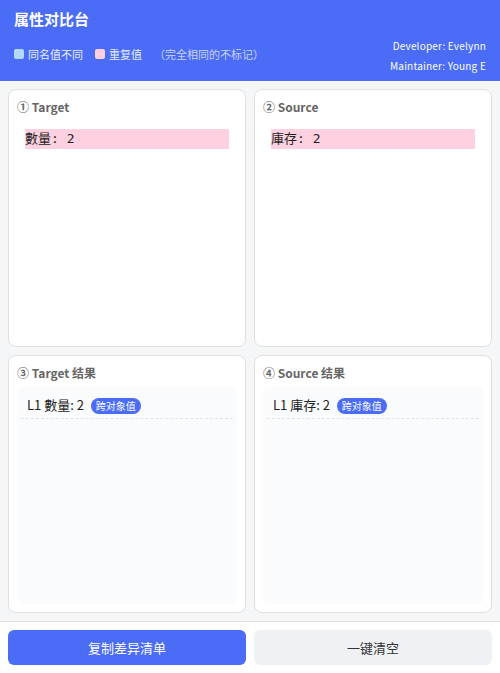
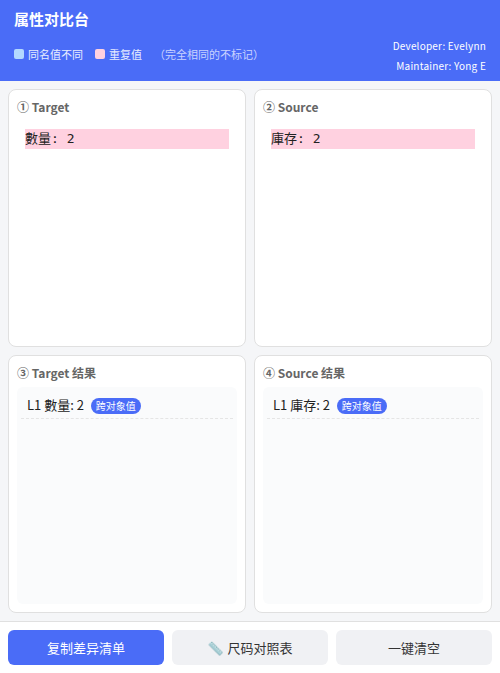
feat: 添加主流鞋码对照表功能，升级版本至0.4.0
新增独立鞋码数据文件 sizes.js，基于耐克官方标准整理成人鞋码对照数据
新增侧边栏鞋码对照表UI、展开/收起按钮，添加表格交互逻辑（点击行高亮对照）
更新README文档，新增鞋码对照表功能说明并补充 sizes.js 文件条目
修复侧边栏维护者名称拼写错误（Young E → Yong E）
更新文档预览用的两张图片文件

Changed region(s): [[0.09, 0.9361, 0.6, 0.9985], [0.72, 0.9361, 0.87, 0.9985], [0.78, 0.0936, 0.93, 0.1248]]

diff --git a/extension/sizes.js b/extension/sizes.js
@@ -1,0 +1,40 @@
+// ===== 主流鞋码对照表数据（成人，基于脚长 mm） =====
+// 说明：
+//   - 第一列「脚长 mm」即中国新码(CN)、日本码(JP)、Mondopoint(ISO 9407)，
+//     三者都直接使用脚长毫米数，故合为一列。
+//   - 本表以 Nike 等主流运动品牌官方尺码表为参考：
+//       美码 US女 ≈ US男 + 1.5（同一脚长）；小码段（220–235）无男码，只列女码
+//       英码 UK 不分男女，同一脚长对应同一 UK 数字（故合并为单列）
+//       欧码 EU 为 Nike 官方近似值（如 240mm→38.5、255mm→40.5）
+//   - 注意：不同品牌/鞋型存在半码差异，本表仅供对照参考，
+//     购买前请再查该品牌官方尺码表；宽度、鞋型、个人脚型同样关键。
+//   - 维护方式：直接改下面的数组即可，不用动渲染逻辑（与 aliases.js 相同模式）。
+
+const SIZE_CHART = [
+  { mm: 220, eu: 35.5, usM: null, usW: 5,   uk: 2.5 },
+  { mm: 225, eu: 36,   usM: null, usW: 5.5, uk: 3   },
+  { mm: 230, eu: 36.5, usM: null, usW: 6,   uk: 3.5 },
+  { mm: 235, eu: 37.5, usM: null, usW: 6.5, uk: 4   },
+  { mm: 240, eu: 38,   usM: 6,    usW: 7.5, uk: 5.5 },
+  { mm: 245, eu: 38.5, usM: 6.5,  usW: 8,   uk: 6   },
+  { mm: 250, eu: 39,   usM: 7,    usW: 8.5, uk: 6   },
+  { mm: 255, eu: 40,   usM: 7.5,  usW: 9,   uk: 6.5 },
+  { mm: 260, eu: 40.5, usM: 8,    usW: 9.5, uk: 7   },
+  { mm: 265, eu: 41,   usM: 8.5,  usW: 10,  uk: 7.5 },
+  { mm: 270, eu: 42,   usM: 9,    usW: 10.5,uk: 8   },
+  { mm: 275, eu: 42.5, usM: 9.5,  usW: 11,  uk: 8.5 },
+  { mm: 280, eu: 43,   usM: 10,   usW: 11.5,uk: 9   },
+  { mm: 285, eu: 44,   usM: 10.5, usW: 12,  uk: 9.5 },
+  { mm: 290, eu: 44.5, usM: 11,   usW: 12.5,uk: 10  },
+  { mm: 295, eu: 45,   usM: 11.5, usW: 13,  uk: 10.5},
+  { mm: 300, eu: 45.5, usM: 12,   usW: 13.5,uk: 11  },
+];
+
+// 表头（与 SIZE_CHART 字段一一对应）
+const SIZE_CHART_COLUMNS = [
+  { key: 'mm',  label: '脚长 mm' },
+  { key: 'eu',  label: '欧码 EU' },
+  { key: 'usM', label: '美码 US 男' },
+  { key: 'usW', label: '美码 US 女' },
+  { key: 'uk',  label: '英码 UK' },
+];

diff --git a/extension/sidepanel.js b/extension/sidepanel.js
@@ -219,3 +219,38 @@ window.addEventListener('resize', () => {
   syncMirrorSize(sourceInput, sourceMirror);
 });
 runCompare();
+
+// ===== ⑤ 主流鞋码对照表（数据在 sizes.js） =====
+const sizeChartBtn = document.getElementById('sizeChartBtn');
+const sizeChart    = document.getElementById('sizeChart');
+
+// 用 sizes.js 的 SIZE_CHART / SIZE_CHART_COLUMNS 渲染表格
+function renderSizeChart() {
+  const table = document.getElementById('sizeTable');
+  const head = SIZE_CHART_COLUMNS.map((c) => `<th>${esc(c.label)}</th>`).join('');
+  const rows = SIZE_CHART.map((r) => {
+    const tds = SIZE_CHART_COLUMNS.map((c) => {
+      const v = r[c.key];
+      if (v === null || v === undefined) return '<td class="na">—</td>';
+      return c.key === 'mm' ? `<td class="mm">${v}</td>` : `<td>${v}</td>`;
+    }).join('');
+    return `<tr data-mm="${r.mm}">${tds}</tr>`;
+  }).join('');
+  table.innerHTML = `<thead><tr>${head}</tr></thead><tbody>${rows}</tbody>`;
+
+  // 点击行高亮选中（方便对照当前关注的尺码）
+  table.addEventListener('click', (e) => {
+    const tr = e.target.closest('tr[data-mm]');
+    if (!tr) return;
+    table.querySelectorAll('tbody tr.selected').forEach((el) => el.classList.remove('selected'));
+    tr.classList.add('selected');
+  });
+}
+
+// 展开/收起对照表（首次展开时才渲染）
+sizeChartBtn.addEventListener('click', () => {
+  const willOpen = sizeChart.hidden;
+  sizeChart.hidden = !willOpen;
+  sizeChartBtn.textContent = willOpen ? '收起尺码表' : '📏 尺码对照表';
+  if (willOpen) renderSizeChart();
+});

diff --git a/extension/sidepanel.css b/extension/sidepanel.css
@@ -239,3 +239,93 @@ footer button:hover {
 #copyDiffBtn:hover {
   background: #3f5adb;
 }
+
+/* ===== ⑤ 主流鞋码对照表（展开区） ===== */
+.size-chart {
+  margin: 0 8px 8px;
+  padding: 10px;
+  background: #fff;
+  border: 1px solid #e0e0e0;
+  border-radius: 8px;
+}
+
+.size-chart-head {
+  display: flex;
+  flex-wrap: wrap;
+  align-items: baseline;
+  justify-content: space-between;
+  gap: 2px 8px;
+  margin-bottom: 6px;
+}
+
+.size-chart h2 {
+  margin: 0;
+  font-size: 13px;
+  color: #333;
+}
+
+.size-chart-note {
+  font-size: 10px;
+  color: #888;
+}
+
+/* 表格容器：横向溢出滚动，纵向限高滚动（表头吸顶） */
+.table-wrap {
+  overflow: auto;
+  max-height: 300px;
+  border: 1px solid #e8ebf2;
+  border-radius: 6px;
+}
+
+#sizeTable {
+  width: 100%;
+  border-collapse: collapse;
+  font-size: 11px;
+  white-space: nowrap;
+}
+
+#sizeTable th,
+#sizeTable td {
+  padding: 4px 8px;
+  text-align: center;
+  border: 1px solid #e8ebf2;
+}
+
+#sizeTable th {
+  position: sticky;
+  top: 0;
+  z-index: 1;
+  background: #4a6cf7;
+  color: #fff;
+  font-weight: 600;
+}
+
+#sizeTable tbody tr:nth-child(even) {
+  background: #f7f9fd;
+}
+
+#sizeTable tbody tr:hover {
+  background: #eef3ff;
+  cursor: pointer;
+}
+
+#sizeTable tbody tr.selected {
+  background: #dbe7ff;
+  outline: 1px solid #4a6cf7;
+  outline-offset: -1px;
+}
+
+#sizeTable td.mm {
+  font-weight: 600;
+  color: #4a6cf7;
+}
+
+#sizeTable td.na {
+  color: #ccc;
+}
+
+.size-chart-tip {
+  margin: 8px 0 0;
+  font-size: 10px;
+  color: #a07b00;
+}

diff --git a/extension/sidepanel.html b/extension/sidepanel.html
@@ -16,7 +16,7 @@
       </div>
       <div class="author">
         <span class="author-line" title="开发者">Developer: Evelynn</span>
-        <span class="author-line" title="维护者">Maintainer: Young E</span>
+        <span class="author-line" title="维护者">Maintainer: Yong E</span>
       </div>
     </div>
   </header>
@@ -53,13 +53,27 @@
     </section>
   </main>
 
+  <!-- ⑤ 主流鞋码对照表（页脚按钮展开/收起，默认收起） -->
+  <section id="sizeChart" class="size-chart" hidden>
+    <div class="size-chart-head">
+      <h2>主流鞋码对照表</h2>
+      <span class="size-chart-note">脚长 mm = 中国新码 / 日码 / Mondopoint</span>
+    </div>
+    <div class="table-wrap">
+      <table id="sizeTable"></table>
+    </div>
+    <p class="size-chart-tip">⚠ 以 Nike 等主流运动品牌官方尺码表为参考（英码不分男女）；不同品牌/鞋型可能有半码差异，购前请再查该品牌官网。鞋码只是起点，宽度、鞋型、脚型同样关键。点击行可高亮对照。</p>
+  </section>
+
   <footer>
     <button id="copyDiffBtn">复制差异清单</button>
+    <button id="sizeChartBtn">📏 尺码对照表</button>
     <button id="clearBtn">一键清空</button>
   </footer>
 
   <script src="aliases.js"></script>
   <script src="compare.js"></script>
+  <script src="sizes.js"></script>
   <script src="sidepanel.js"></script>
 </body>
 </html>

diff --git a/README.md b/README.md
@@ -24,6 +24,10 @@
 - 结果框自动收集命中条目并带规则徽章；点击条目跳转到输入框对应行并闪烁
 - **复制差异清单**：一键复制所有「同名值不同」为 `属性名 / Target值 / Source值` 三列
   （Tab 分隔，可直接粘贴进 Excel/表格）
+- **主流鞋码对照表**：页脚「尺码对照表」按钮展开换算参考
+  （脚长mm / 欧码 / 美码男 / 美码女 / 英码UK，英码不分男女合为一列；
+  以 Nike 等主流运动品牌官方尺码表为参考：美码女 ≈ 美码男 + 1.5；
+  点击行可高亮对照；数据独立维护在 `extension/sizes.js`）
 - 一键清空；不持久化保存（关闭即清空）
 
 ## 安装（开发者模式加载）
@@ -46,6 +50,7 @@
 │   ├── sidepanel.js      # 界面逻辑（防抖对比、镜像高亮、结果框、跳转、清空）
 │   ├── compare.js        # 纯对比逻辑（解析 + 规则 + 属性名等价归一），不依赖 DOM
 │   ├── aliases.js        # 属性名等价别名表（独立维护，加等价词只改这个文件）
+│   ├── sizes.js          # 主流鞋码对照表数据（独立维护，改尺码只改这个文件）
 │   └── icons/
 │       └── icon128.png   # 工具栏/扩展图标
 ├── tests/                # 自动化测试
